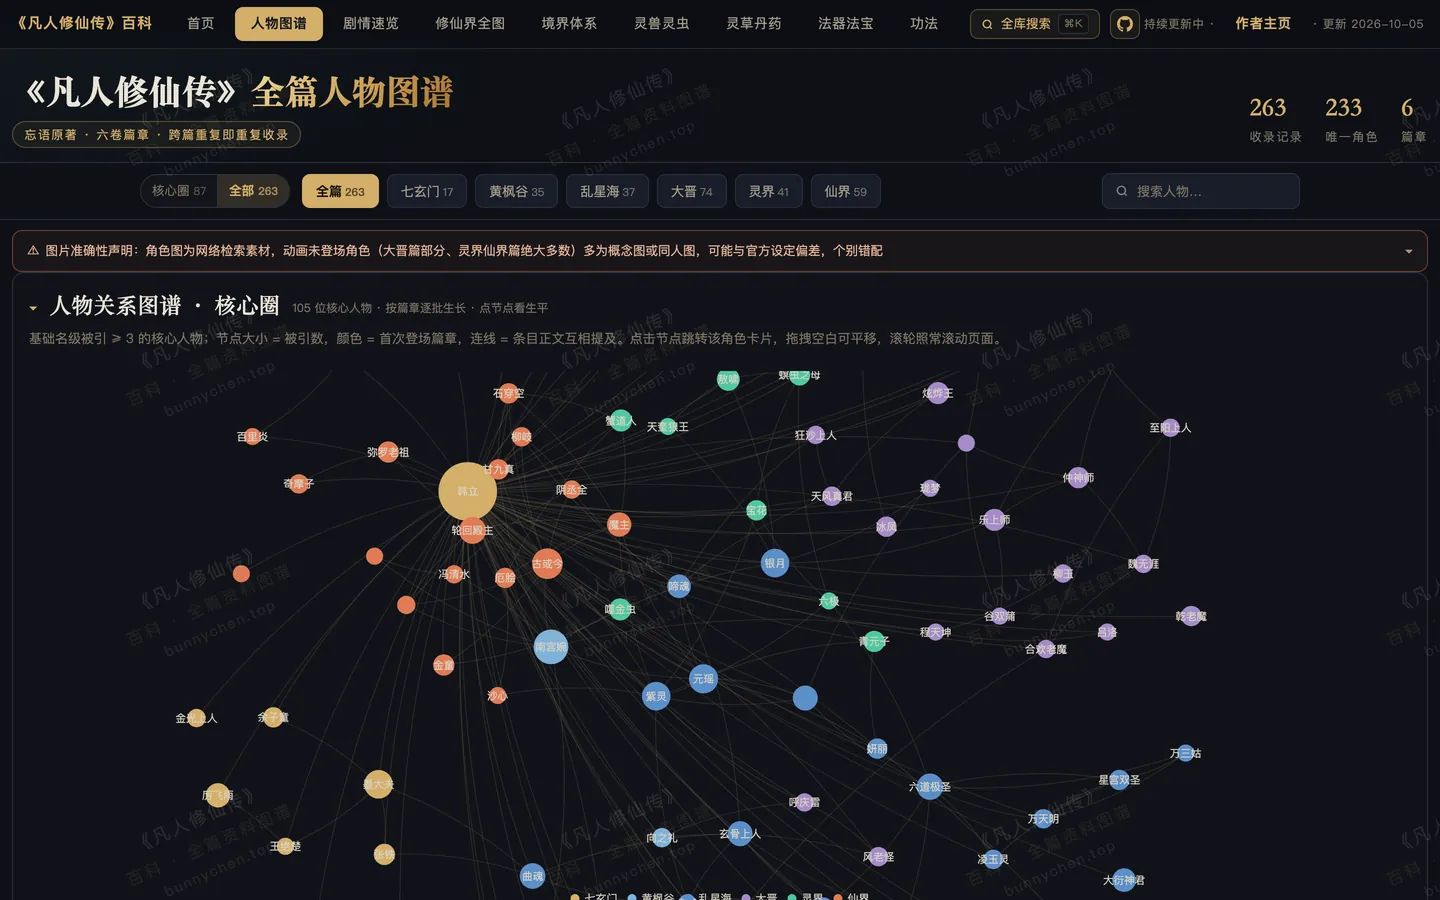
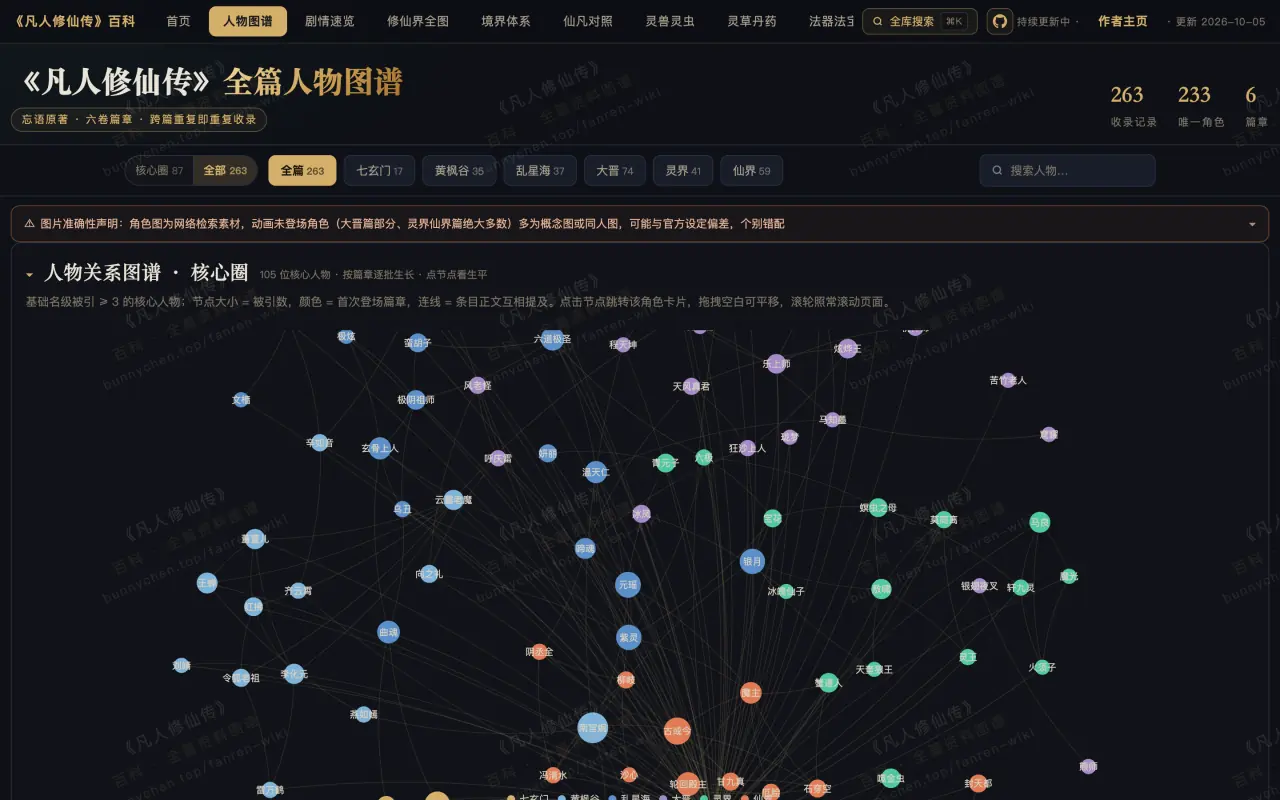
更新 README 截图与仙凡对照说明
补充换算器和雷达图展示，更新视图及剧情统计，并压缩截图、将封面转为 WebP。同步完善截图和数据核实流程。

diff --git a/README.md b/README.md
@@ -5,7 +5,7 @@
 ## 页面速览
 
 <p align="center">
-  <a href="https://bunnychen.top/fanren-wiki/"><img src="image/README/shots/封面.png" alt="首页" width="840"></a>
+  <a href="https://bunnychen.top/fanren-wiki/"><img src="image/README/shots/封面.webp" alt="首页" width="840"></a>
 </p>
 
 | 修仙界全图 · 三界巡游 |
@@ -19,6 +19,10 @@
 | 剧情速览 | 境界体系 |
 | :---: | :---: |
 | <a href="https://bunnychen.top/fanren-wiki/#v-lore"><img src="image/README/shots/03-lore.webp" alt="剧情速览" width="400"></a> | <a href="https://bunnychen.top/fanren-wiki/#v-realms"><img src="image/README/shots/04-realms.webp" alt="境界体系" width="400"></a> |
+
+| 仙凡对照 · 换算器 | 修为判定 · 十维雷达 |
+| :---: | :---: |
+| <a href="https://bunnychen.top/fanren-wiki/#v-mortal"><img src="image/README/shots/12-mortal.webp" alt="仙凡对照·境界换算器" width="400"></a> | <a href="https://bunnychen.top/fanren-wiki/#v-mortal"><img src="image/README/shots/13-mortal-radar.webp" alt="修为判定与十维雷达图" width="400"></a> |
 
 | 灵兽灵虫 | 灵草丹药 |
 | :---: | :---: |
@@ -34,9 +38,10 @@
 
 ## 特性
 
-- **十一大视图**：首页 / 人物图谱 / 剧情速览 / 修仙界全图 / 境界体系 / 灵兽灵虫 / 灵草丹药 / 法器法宝 / 功法 / 阵法 / 符箓 页内切换，单条记录可深链直达（如 `#v-treasures/tres-12`、`#v-gongfa/gongfa-5`）。
+- **十二大视图**：首页 / 人物图谱 / 剧情速览 / 修仙界全图 / 境界体系 / 仙凡对照 / 灵兽灵虫 / 灵草丹药 / 法器法宝 / 功法 / 阵法 / 符箓 页内切换，单条记录可深链直达（如 `#v-treasures/tres-12`、`#v-gongfa/gongfa-5`）。
 - **修仙界全图 · 三界巡游**：Canvas 手绘三界舆图，156 处地点 × 22 个区域 × 10 段巡游章节（七玄门 → 大罗之争），跟随韩立足迹自动巡游人界 → 灵界 → 仙界；可播放 / 暂停 / 变速、点击光点查看地点剧情、`/` 搜索地点、一键跳到任一章节；「舆图原图」叠层对照同人舆图（作者：画地图的小七）。
-- **剧情速览分两栏**：`境界时间线`（韩立境界演进 + 故事脉络 + 双韩立因果闭环）与 `情节梳理 · 全书十一卷`（11 卷 / 55 地点篇 / 388 步，带来源署名）。
+- **剧情速览分两栏**：`境界时间线`（韩立境界演进 + 故事脉络 + 双韩立因果闭环）与 `情节梳理 · 全书十一卷`（11 卷 / 55 地点篇 / 333 步，带来源署名）。
+- **仙凡对照 · 境界换算**：以人界五境类比现实社会的趣味换算器，10 个衡量维度（学识 / 神识 / 职业 / 职位 / 财富 / 人脉 / 精力等）实时算出凡间「修为」与境界稀有度，配十维雷达图与各境界现实人物联想对照；附立场叠甲与调研依据文档角标，纯属娱乐、不构成排名或评价。
 - **关系图谱**：ECharts 力导向图，收录被引 ≥ 3 的 105 位核心角色（随互引增长），节点可点进对应卡片；人物图谱默认显示全部 263 条，可一键切「核心圈 87」降噪。
 - **长列表分批渲染**：人物卡片与各库列表先出首批、滚动续传（深链与互引会按需补齐到目标卡），首屏更轻。
 - **全站搜索**：`Ctrl/⌘ + K` 唤起，跨七库命中、关键词高亮、方向键定位。
@@ -56,6 +61,7 @@
 | 阵法       |     **44** | 护山杀阵 / 困敌禁制 / 传送辅助，优先收录动画已出现条目，附原著出处 |
 | 符箓       |     **34** | 攻击 / 防御 / 辅助 / 通讯，优先收录动画已出现条目，附原著出处 |
 | 修仙界全图 |    **156** | 三界地点 × 22 区域 × 10 段巡游章节，韩立足迹人界 → 灵界 → 仙界 |
+| 仙凡对照 · 换算 |   **10** | 10 衡量维度 × 5 人界大境，十维雷达判定 + 各境界人物联想对照（娱乐向，非真实排名） |
 | 配图     | **数百张** | 站内配图，人物形象以官方动画/游戏素材为主                         |
 
 数据来源：起点官方《凡人必备手册》第二版 + 原著与公开资料交叉验证；「剧情速览 → 情节梳理」整理自微信公众号「书生去哪了」的原创文章（署名与原文链接见页内，声明见 [`NOTICE`](NOTICE)）。
